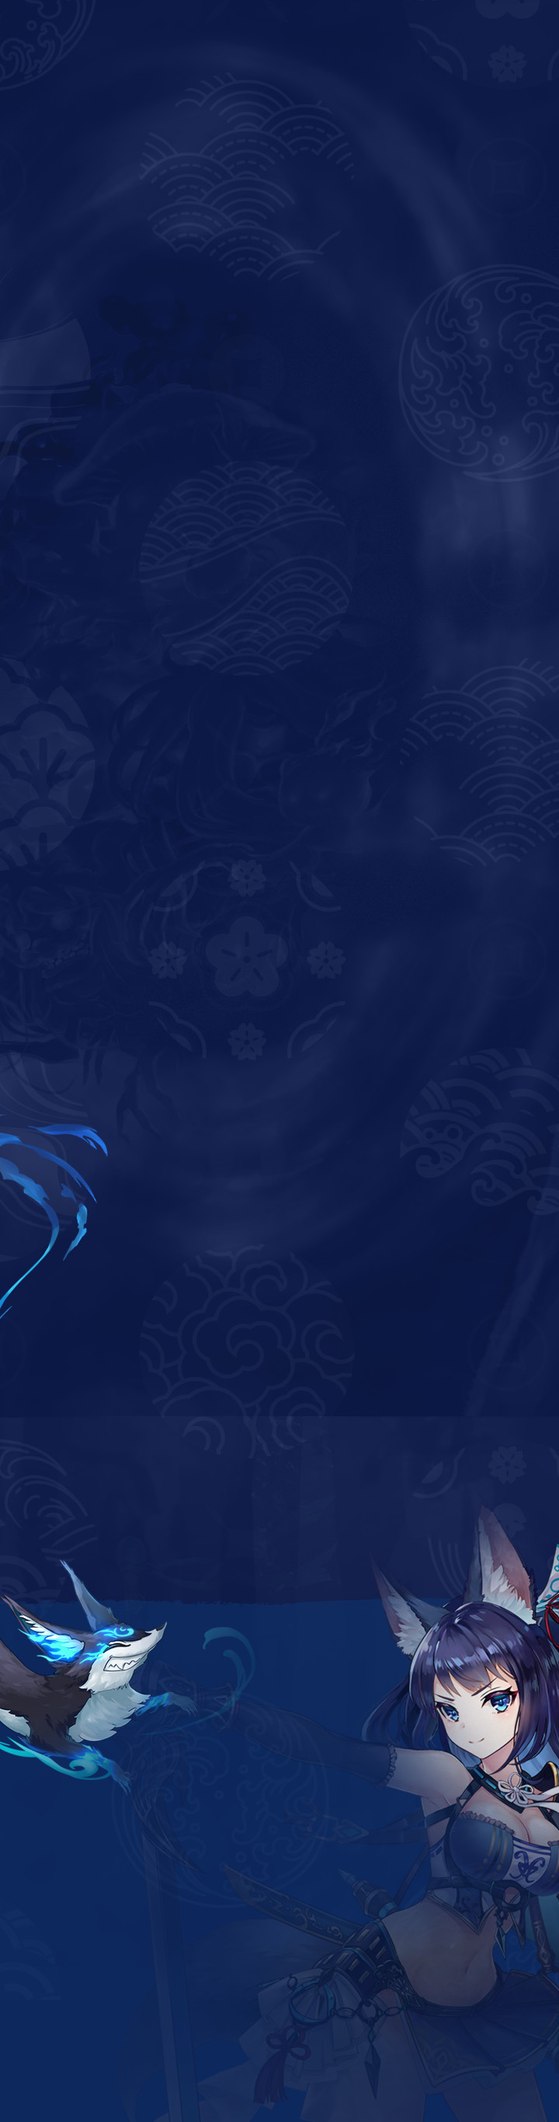
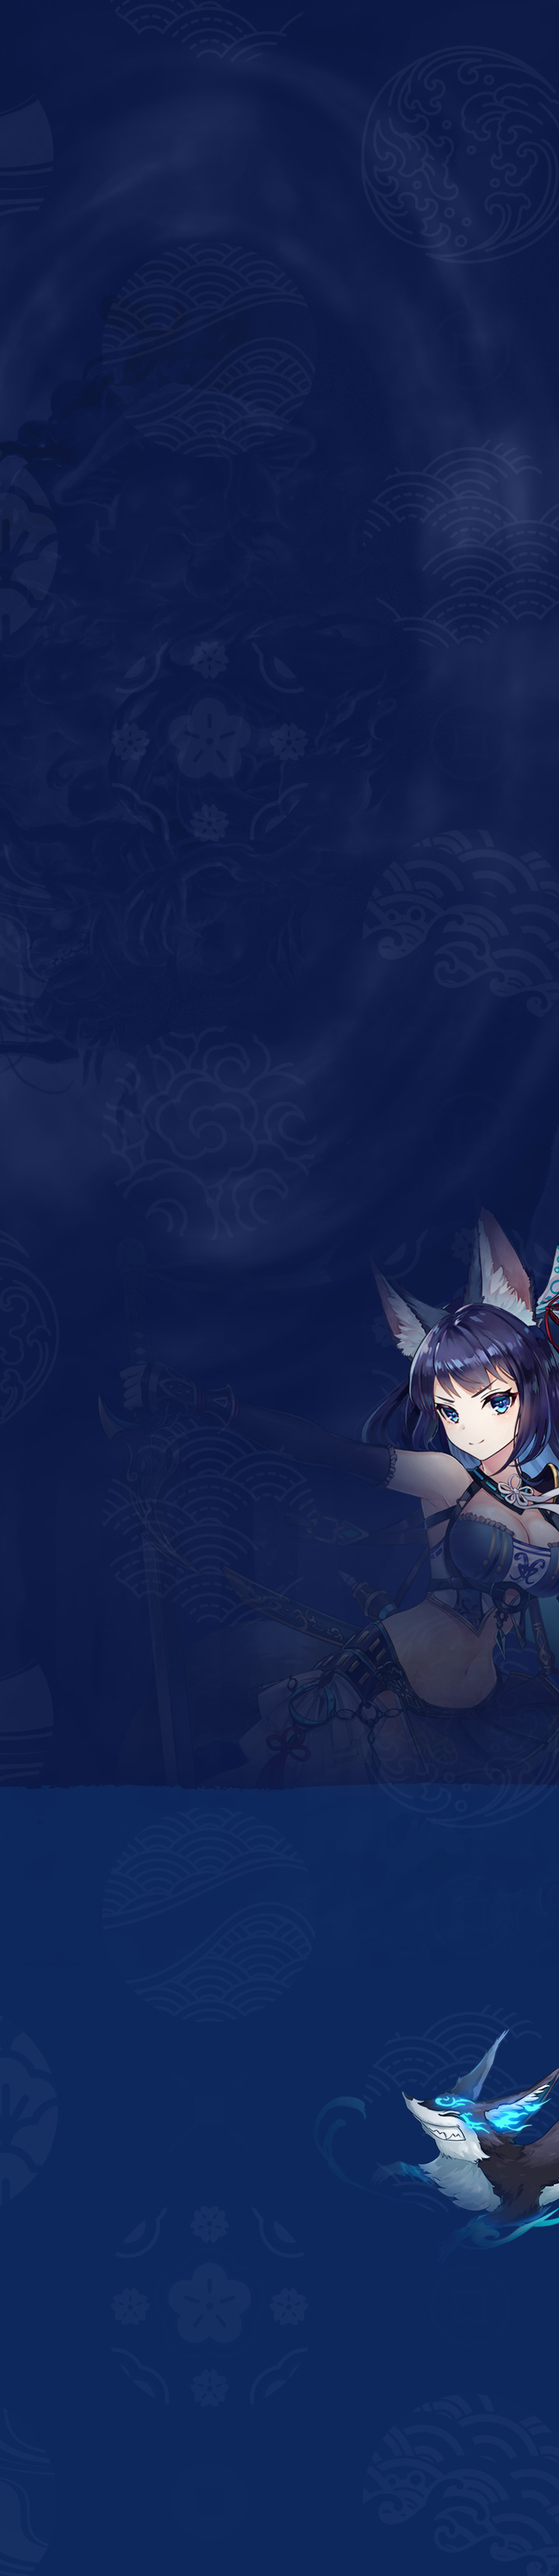
#BRAND

diff --git a/brand/css/layout.css b/brand/css/layout.css
@@ -500,7 +500,7 @@ body.popup{position:absolute;;overflow:hidden}
     #twitter_menu.close .btn_box{padding:0}
     #twitter_menu.close .btn_twitter{width:120px;height:137px;background:url("../img/main/btn_twitter_close.png") no-repeat center center}
 
-    .content_reserve{padding:60px 0 0 0;height:auto;background:url("../img/reserve/bg_m.jpg") no-repeat center center;background-size:cover}
+    .content_reserve{padding:60px 0 0 0;height:auto;background:#0b1844 url("../img/reserve/bg_m.jpg") no-repeat center bottom;background-size:100% auto}
     .content_reserve .reserve_wrap .title_box .title{max-width:80%}
     .content_reserve .reserve_wrap .title_box .sub_title{margin-top:10px}
     .content_reserve .reserve_wrap .reserve_box_wrap{margin-top:20px;height:auto}
@@ -510,12 +510,13 @@ body.popup{position:absolute;;overflow:hidden}
     .content_reserve .reserve_desc{position:relative;left:auto;top:auto;transform:none}
     .content_reserve .benefit_wrap{position:relative;left:auto;bottom:auto;transform:none}
     .content_reserve .benefit_wrap .emot_box{height:auto;padding-bottom:100px}
+    .content_reserve .benefit_wrap .emot_box .text_box{padding-top:50px}
     .content_reserve .reserve_form .btn_reserve{width:100%}
     .content_reserve .reserve_form .btn_event{width:100%}
 
     .content_event{padding:60px 0 80px 0}
     .content_event .event_box{padding:0 10px}
-    .content_event .desc{font-size:13px;text-align:center;padding:10px 30px 0;line-height: 1.3em}
+    .content_event .desc{font-size:14px;text-align:center;padding:10px 30px 0;line-height: 1.3em}
 
     .content_story{padding:80px 0}
 
@@ -542,7 +543,7 @@ body.popup{position:absolute;;overflow:hidden}
     .content_top .text_box{padding:0 30px;margin-top:0;width:100%}
     .content_top .text_box .title_box{margin:0 auto;width:80%}
 
-    #twitter_menu{right:-1px;bottom:150px;transform:scale(0.7);transform-origin:right center}
+    #twitter_menu{right:-1px;/*bottom:150px;*/top:calc(50vh + 60px);bottom:auto;transform:scale(0.7);transform-origin:right center}
 
     .content_top .top_video .video_wrap::before,
     .content_top .top_video .video_wrap::after{display:none}
@@ -564,11 +565,13 @@ body.popup{position:absolute;;overflow:hidden}
     /* .content_event .event_box .btn_event .img{max-width:107%;margin-left:0} */
     .content_event .event_box .btn_event .img{margin:0;max-width:none;width:99%;padding-left:5%}
 
+    .content_event .desc{margin-top:-30px;font-size:13px}
+
     .content_story{padding:100px 0 200px 0}
     .content_story .bg{background:url("../img/story/bg_m.jpg") no-repeat center center;background-size:cover}
     .content_story .text_wrap{padding:0 60px}
 
-    .content_char{padding-bottom:150px;background:url("../img/char/bg_m.jpg") no-repeat center center;background-size:cover}
+    .content_char{padding-bottom:200px;background:url("../img/char/bg_m.jpg") no-repeat center center;background-size:cover}
     .content_char .char_wrap{padding:0;margin:0}
     .content_char .char_img{left:-30px;right:-30px;width:auto}
     .content_char .char_wrap .char_text{padding-top:50%;width:100%}
@@ -577,7 +580,7 @@ body.popup{position:absolute;;overflow:hidden}
     .content_char .char_text .text_box{max-height:none;text-align:center}
     .content_char .char_wrap .btn_char_video{width:100%}
     .content_char .char_wrap .btn_voice{right:-30px;top:50px;transform:scale(0.8)}
-    .content_char .char_text .btn_relation{position:absolute;left:50%;bottom:-385px;margin:0 0 0 -92px}
+    .content_char .char_text .btn_relation{position:absolute;left:50%;bottom:-455px;margin:0 0 0 -92px}
     #char_slide_wrap .btn_char_slide{display:none}
     #char_slide_wrap .char_slide_wrap{padding-bottom:0}
     .content_char .char_wrap .thumb_slide{position:relative;bottom:auto;left:auto;right:auto;margin-top:35px}
@@ -601,6 +604,7 @@ body.popup{position:absolute;;overflow:hidden}
     /* .content_char .char_wrap .thumb_slide.light::after{display:none} */
 
     /* .content_feature{background:url("../img/feature/bg_m.jpg") no-repeat center center;background-size:cover} */
+    .content_feature{padding-bottom:100px}
     .content_feature .bg{background:url("../img/feature/bg_m.jpg") no-repeat center center;background-size:cover}
     .content_feature .btn_feature_slide.prev{margin-left:-222px}
     .content_feature .btn_feature_slide.next{margin-left:180px}

diff --git a/brand/css/cbt.css b/brand/css/cbt.css
@@ -37,6 +37,10 @@
     .content_cbtinfo .process_box .btn_box a img{width:100%}
 }
 
+@media screen and (max-width: 1000px){
+    .content_cbtinfo .notice{font-size:14px}
+}
+
 @media screen and (max-width: 780px){
     .content_cbt .cbt_wrap .title_box .sub_title{margin:0}
     .content_cbtinfo .process_box .box{width:100%}
